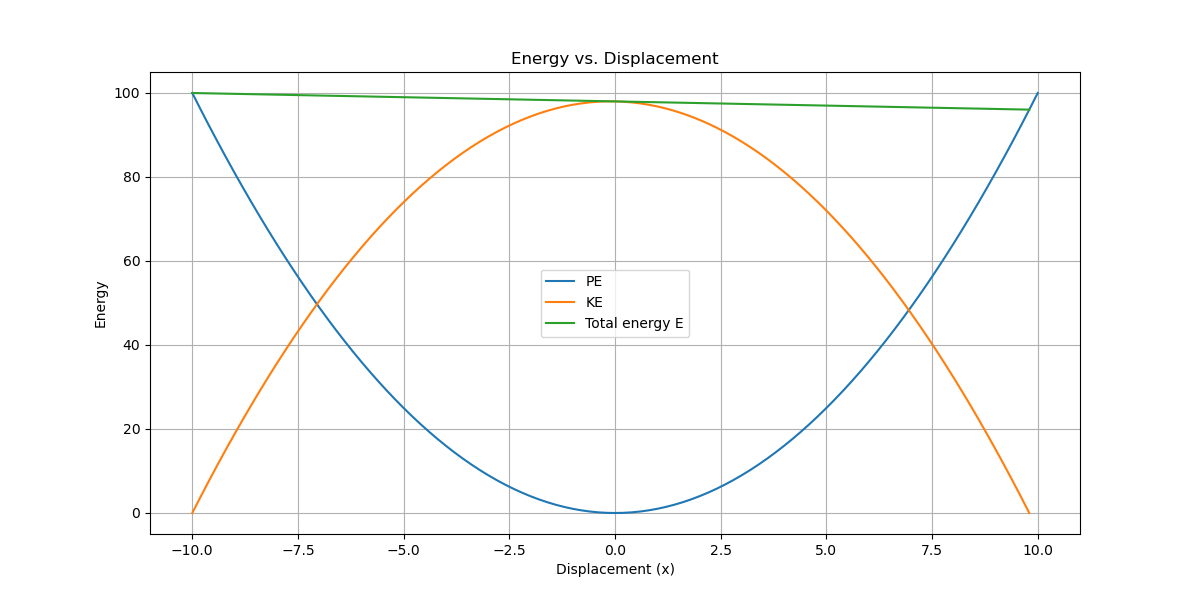
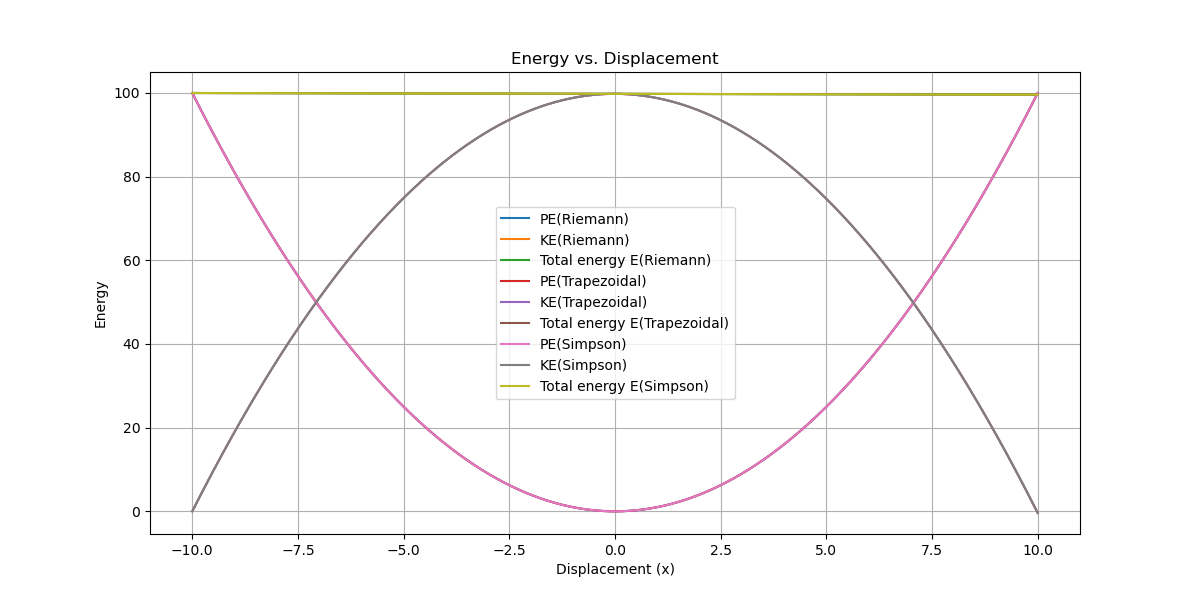
Computation project 1

diff --git a/CPClass/main.py b/CPClass/main.py
@@ -64,11 +64,11 @@ k = 2.0  # Spring constant
 m = 1.0  # Mass of the object 
 
 # Call the functions with appropriate arguments
-x_r, integral_r, a_r = Integral.riemann_sum(Integral.force, -10, 10, 100)
-x_t, integral_t, a_t = Integral.trapezoidal(Integral.force, -10, 10, 100)
-x_s, integral_s, a_s = Integral.simpsons_rule(Integral.force, -10, 10, 100)
-x_sc, integral_sc = Integral.Scipy_integral(Integral.force, -10, 10, k, 100)
-x_an, integral_an = Integral.analytical(Integral.force, -10, 10, k, 100)
+x_r, integral_r, a_r = Integral.riemann_sum(Integral.force, -10, 10, 1000)
+x_t, integral_t, a_t = Integral.trapezoidal(Integral.force, -10, 10, 1000)
+x_s, integral_s, a_s = Integral.simpsons_rule(Integral.force, -10, 10, 1000)
+x_sc, integral_sc = Integral.Scipy_integral(Integral.force, -10, 10, k, 1000)
+x_an, integral_an = Integral.analytical(Integral.force, -10, 10, k, 1000)
 KE_r, PE_r, E_r, t_r = Integral.energy(a_r, x_r)
 KE_t, PE_t, E_t, t_t = Integral.energy(a_t, x_t)
 KE_s, PE_s, E_s, t_s = Integral.energy(a_s, x_s)
@@ -92,9 +92,15 @@ plt.savefig("I_vs_x.png")
 plt.show()
 
 plt.figure(figsize=(12, 6))
-plt.plot(x_r, PE_r, label='PE', linestyle='-')
-plt.plot(x_r, KE_r, label='KE', linestyle='-')
-plt.plot(x_r, E_r, label='Total energy E', linestyle='-')
+plt.plot(x_r, PE_r, label='PE(Riemann)', linestyle='-')
+plt.plot(x_r, KE_r, label='KE(Riemann)', linestyle='-')
+plt.plot(x_r, E_r, label='Total energy E(Riemann)', linestyle='-')
+plt.plot(x_t, PE_t, label='PE(Trapezoidal)', linestyle='-')
+plt.plot(x_t, KE_t, label='KE(Trapezoidal)', linestyle='-')
+plt.plot(x_t, E_t, label='Total energy E(Trapezoidal)', linestyle='-')
+plt.plot(x_s, PE_s, label='PE(Simpson)', linestyle='-')
+plt.plot(x_s, KE_s, label='KE(Simpson)', linestyle='-')
+plt.plot(x_s, E_s, label='Total energy E(Simpson)', linestyle='-')
 plt.xlabel('Displacement (x)')
 plt.ylabel('Energy')
 plt.title('Energy vs. Displacement')
